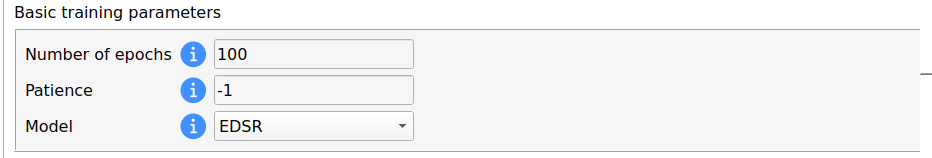
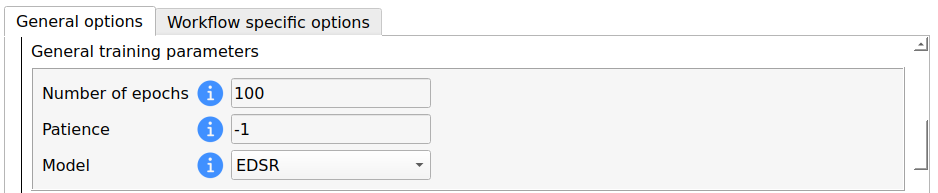
Replace "Basic" to "General" in GUI options.

diff --git a/source/workflows/semantic_segmentation.rst b/source/workflows/semantic_segmentation.rst
@@ -392,11 +392,10 @@ At the core of each BiaPy workflow there is a deep learning model. Although we t
         .. tabs::
           .. tab:: GUI
 
-            Under *Workflow*, select *Semantic Segmentation*, click twice on *Continue*, and under *General options*, click on *Advanced options*, scroll down to *Basic training parameters*, and edit the field **Number of classes**:
+            Under *Workflow*, select *Semantic Segmentation*, click twice on *Continue*, and under *Workflow specific options* > *Train data options*, and edit the field **Number of classes**:
 
-            .. image:: ../img/GUI-basic-training-params.png
+            .. image:: ../img/semantic_seg/GUI-workflow-specific-options.png
               :align: center
-              :width: 75%
 
           .. tab:: Google Colab / Notebooks
             
@@ -441,11 +440,10 @@ At the core of each BiaPy workflow there is a deep learning model. Although we t
         .. tabs::
           .. tab:: GUI
 
-            Under *Workflow*, select *Semantic Segmentation*, click twice on *Continue*, and under *General options*, click on *Advanced options*, scroll down to *Basic training parameters*, and edit the field **Number of epochs**:
+            Under *Workflow*, select *Semantic Segmentation*, click twice on *Continue*, and under *General options*, click on *Advanced options*, scroll down to *General training parameters*, and edit the field **Number of epochs**:
 
-            .. image:: ../img/GUI-basic-training-params.png
+            .. image:: ../img/semantic_seg/GUI-basic-training-params.png
               :align: center
-              :width: 75%
 
           .. tab:: Google Colab / Notebooks
             
@@ -466,11 +464,10 @@ At the core of each BiaPy workflow there is a deep learning model. Although we t
         .. tabs::
           .. tab:: GUI
 
-            Under *Workflow*, select *Semantic Segmentation*, click twice on *Continue*, and under *General options*, click on *Advanced options*, scroll down to *Basic training parameters*, and edit the field **Patience**:
+            Under *Workflow*, select *Semantic Segmentation*, click twice on *Continue*, and under *General options*, click on *Advanced options*, scroll down to *General training parameters*, and edit the field **Patience**:
 
-            .. image:: ../img/GUI-basic-training-params.png
+            .. image:: ../img/semantic_seg/GUI-basic-training-params.png
               :align: center
-              :width: 75%
 
           .. tab:: Google Colab / Notebooks
             

diff --git a/source/workflows/detection.rst b/source/workflows/detection.rst
@@ -434,9 +434,9 @@ At the core of each BiaPy workflow there is a deep learning model. Although we t
         .. tabs::
           .. tab:: GUI
 
-            Under *Workflow*, select *Object detection*, click twice on *Continue*, and under *General options*, click on *Advanced options*, scroll down to *Basic training parameters*, and edit the field **Number of epochs**:
+            Under *Workflow*, select *Object detection*, click twice on *Continue*, and under *General options*, click on *Advanced options*, scroll down to *General training parameters*, and edit the field **Number of epochs**:
 
-            .. image:: ../img/GUI-basic-training-params.png
+            .. image:: ../img/detection/GUI-basic-training-params.png
               :align: center
 
           .. tab:: Google Colab / Notebooks
@@ -458,9 +458,9 @@ At the core of each BiaPy workflow there is a deep learning model. Although we t
         .. tabs::
           .. tab:: GUI
 
-            Under *Workflow*, select *Object detection*, click twice on *Continue*, and under *General options*, click on *Advanced options*, scroll down to *Basic training parameters*, and edit the field **Patience**:
+            Under *Workflow*, select *Object detection*, click twice on *Continue*, and under *General options*, click on *Advanced options*, scroll down to *General training parameters*, and edit the field **Patience**:
 
-            .. image:: ../img/GUI-basic-training-params.png
+            .. image:: ../img/detection/GUI-basic-training-params.png
               :align: center
 
           .. tab:: Google Colab / Notebooks

diff --git a/source/workflows/instance_segmentation.rst b/source/workflows/instance_segmentation.rst
@@ -414,9 +414,9 @@ At the core of each BiaPy workflow there is a deep learning model. Although we t
         .. tabs::
           .. tab:: GUI
 
-            Under *Workflow*, select *Instance Segmentation*, click twice on *Continue*, and under *General options*, click on *Advanced options*, scroll down to *Basic training parameters*, and edit the field **Number of epochs**:
+            Under *Workflow*, select *Instance Segmentation*, click twice on *Continue*, and under *General options*, click on *Advanced options*, scroll down to *General training parameters*, and edit the field **Number of epochs**:
 
-            .. image:: ../img/GUI-basic-training-params.png
+            .. image:: ../img/instance-seg/GUI-basic-training-params.png
               :align: center
               :width: 75%
 
@@ -439,9 +439,9 @@ At the core of each BiaPy workflow there is a deep learning model. Although we t
         .. tabs::
           .. tab:: GUI
 
-            Under *Workflow*, select *Instance Segmentation*, click twice on *Continue*, and under *General options*, click on *Advanced options*, scroll down to *Basic training parameters*, and edit the field **Patience**:
+            Under *Workflow*, select *Instance Segmentation*, click twice on *Continue*, and under *General options*, click on *Advanced options*, scroll down to *General training parameters*, and edit the field **Patience**:
 
-            .. image:: ../img/GUI-basic-training-params.png
+            .. image:: ../img/instance-seg/GUI-basic-training-params.png
               :align: center
               :width: 75%
 

diff --git a/source/workflows/super_resolution.rst b/source/workflows/super_resolution.rst
@@ -439,7 +439,7 @@ At the core of each BiaPy workflow there is a deep learning model. Although we t
         .. tabs::
           .. tab:: GUI
 
-            Under *Workflow*, select *Super-resolution*, click twice on *Continue*, and under *General options*, click on *Advanced options*, scroll down to *Basic training parameters*, and edit the field **Number of epochs**:
+            Under *Workflow*, select *Super-resolution*, click twice on *Continue*, and under *General options*, click on *Advanced options*, scroll down to *General training parameters*, and edit the field **Number of epochs**:
 
             .. image:: ../img/super-resolution/GUI-basic-training-params.png
               :align: center
@@ -464,7 +464,7 @@ At the core of each BiaPy workflow there is a deep learning model. Although we t
         .. tabs::
           .. tab:: GUI
 
-            Under *Workflow*, select *Super-resolution*, click twice on *Continue*, and under *General options*, click on *Advanced options*, scroll down to *Basic training parameters*, and edit the field **Patience**:
+            Under *Workflow*, select *Super-resolution*, click twice on *Continue*, and under *General options*, click on *Advanced options*, scroll down to *General training parameters*, and edit the field **Patience**:
 
             .. image:: ../img/super-resolution/GUI-basic-training-params.png
               :align: center

diff --git a/source/workflows/denoising.rst b/source/workflows/denoising.rst
@@ -276,7 +276,7 @@ At the core of each BiaPy workflow there is a deep learning model. Although we t
         .. tabs::
           .. tab:: GUI
 
-            Under *Workflow*, select *Image denoising*, click twice on *Continue*, and under *General options*, click on *Advanced options*, scroll down to *Basic training parameters*, and edit the field **Number of epochs**:
+            Under *Workflow*, select *Image denoising*, click twice on *Continue*, and under *General options*, click on *Advanced options*, scroll down to *General training parameters*, and edit the field **Number of epochs**:
 
             .. image:: ../img/denoising/GUI-basic-training-params.png
               :align: center
@@ -299,7 +299,7 @@ At the core of each BiaPy workflow there is a deep learning model. Although we t
         .. tabs::
           .. tab:: GUI
 
-            Under *Workflow*, select *Image denoising*, click twice on *Continue*, and under *General options*, click on *Advanced options*, scroll down to *Basic training parameters*, and edit the field **Patience**:
+            Under *Workflow*, select *Image denoising*, click twice on *Continue*, and under *General options*, click on *Advanced options*, scroll down to *General training parameters*, and edit the field **Patience**:
 
             .. image:: ../img/denoising/GUI-basic-training-params.png
               :align: center
